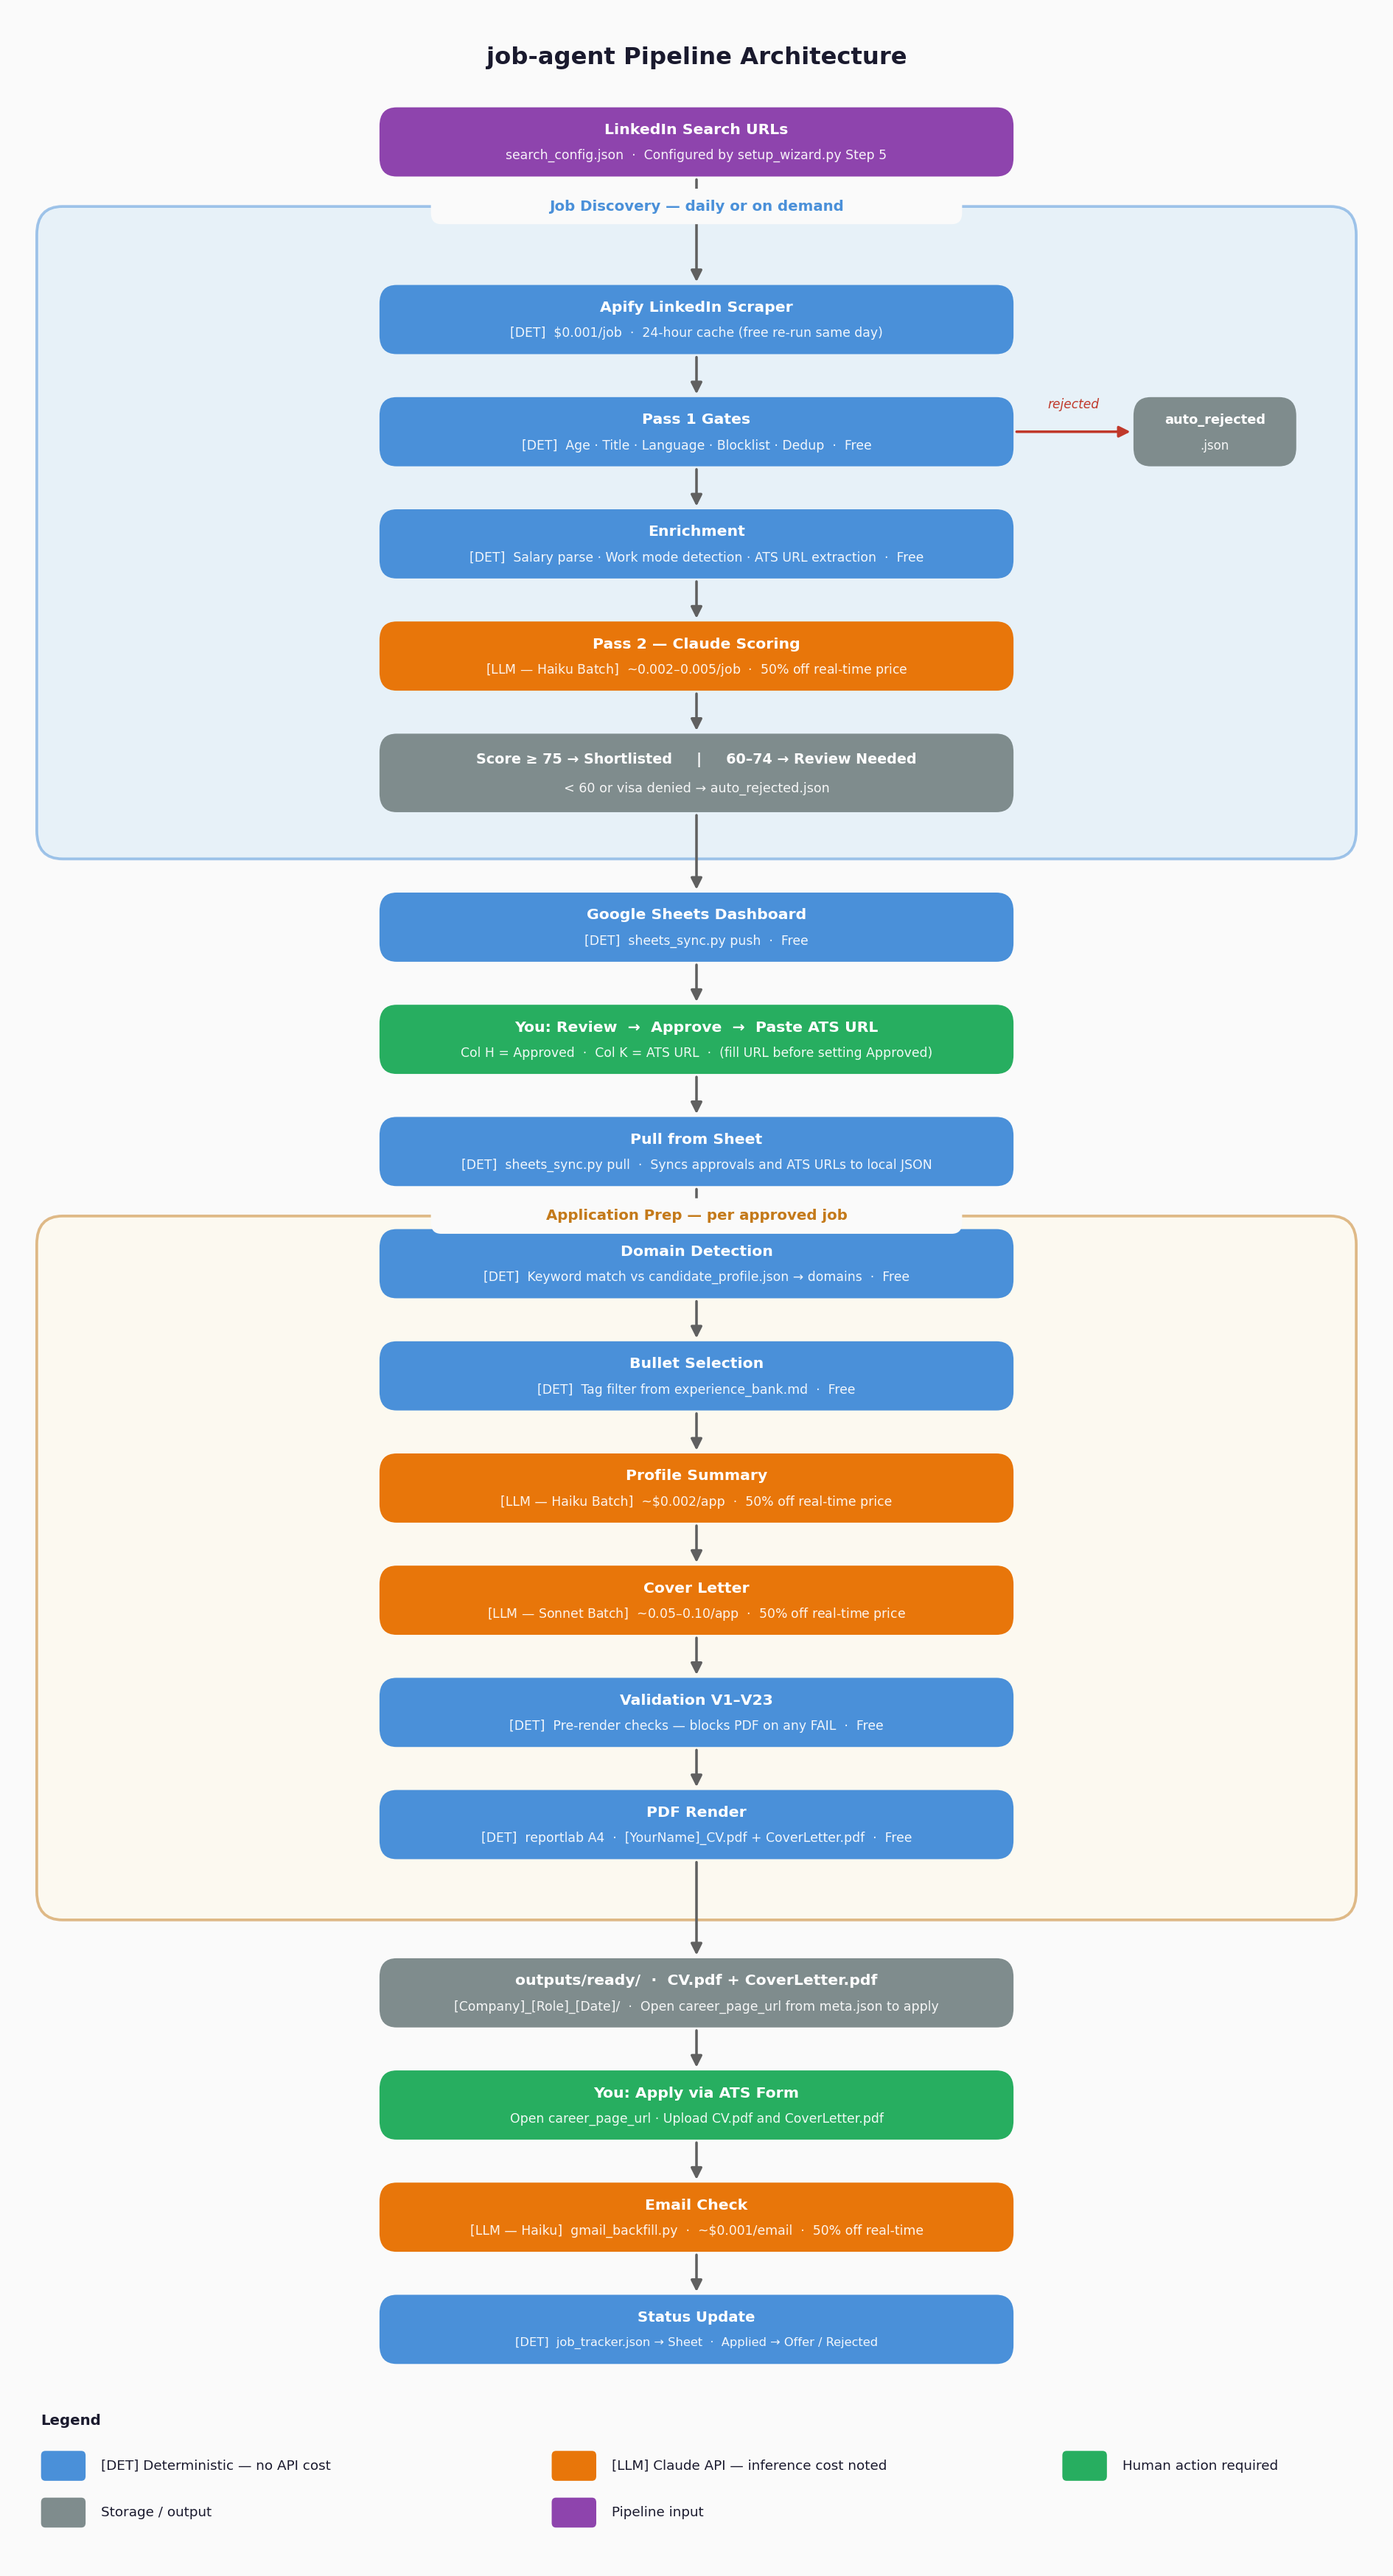
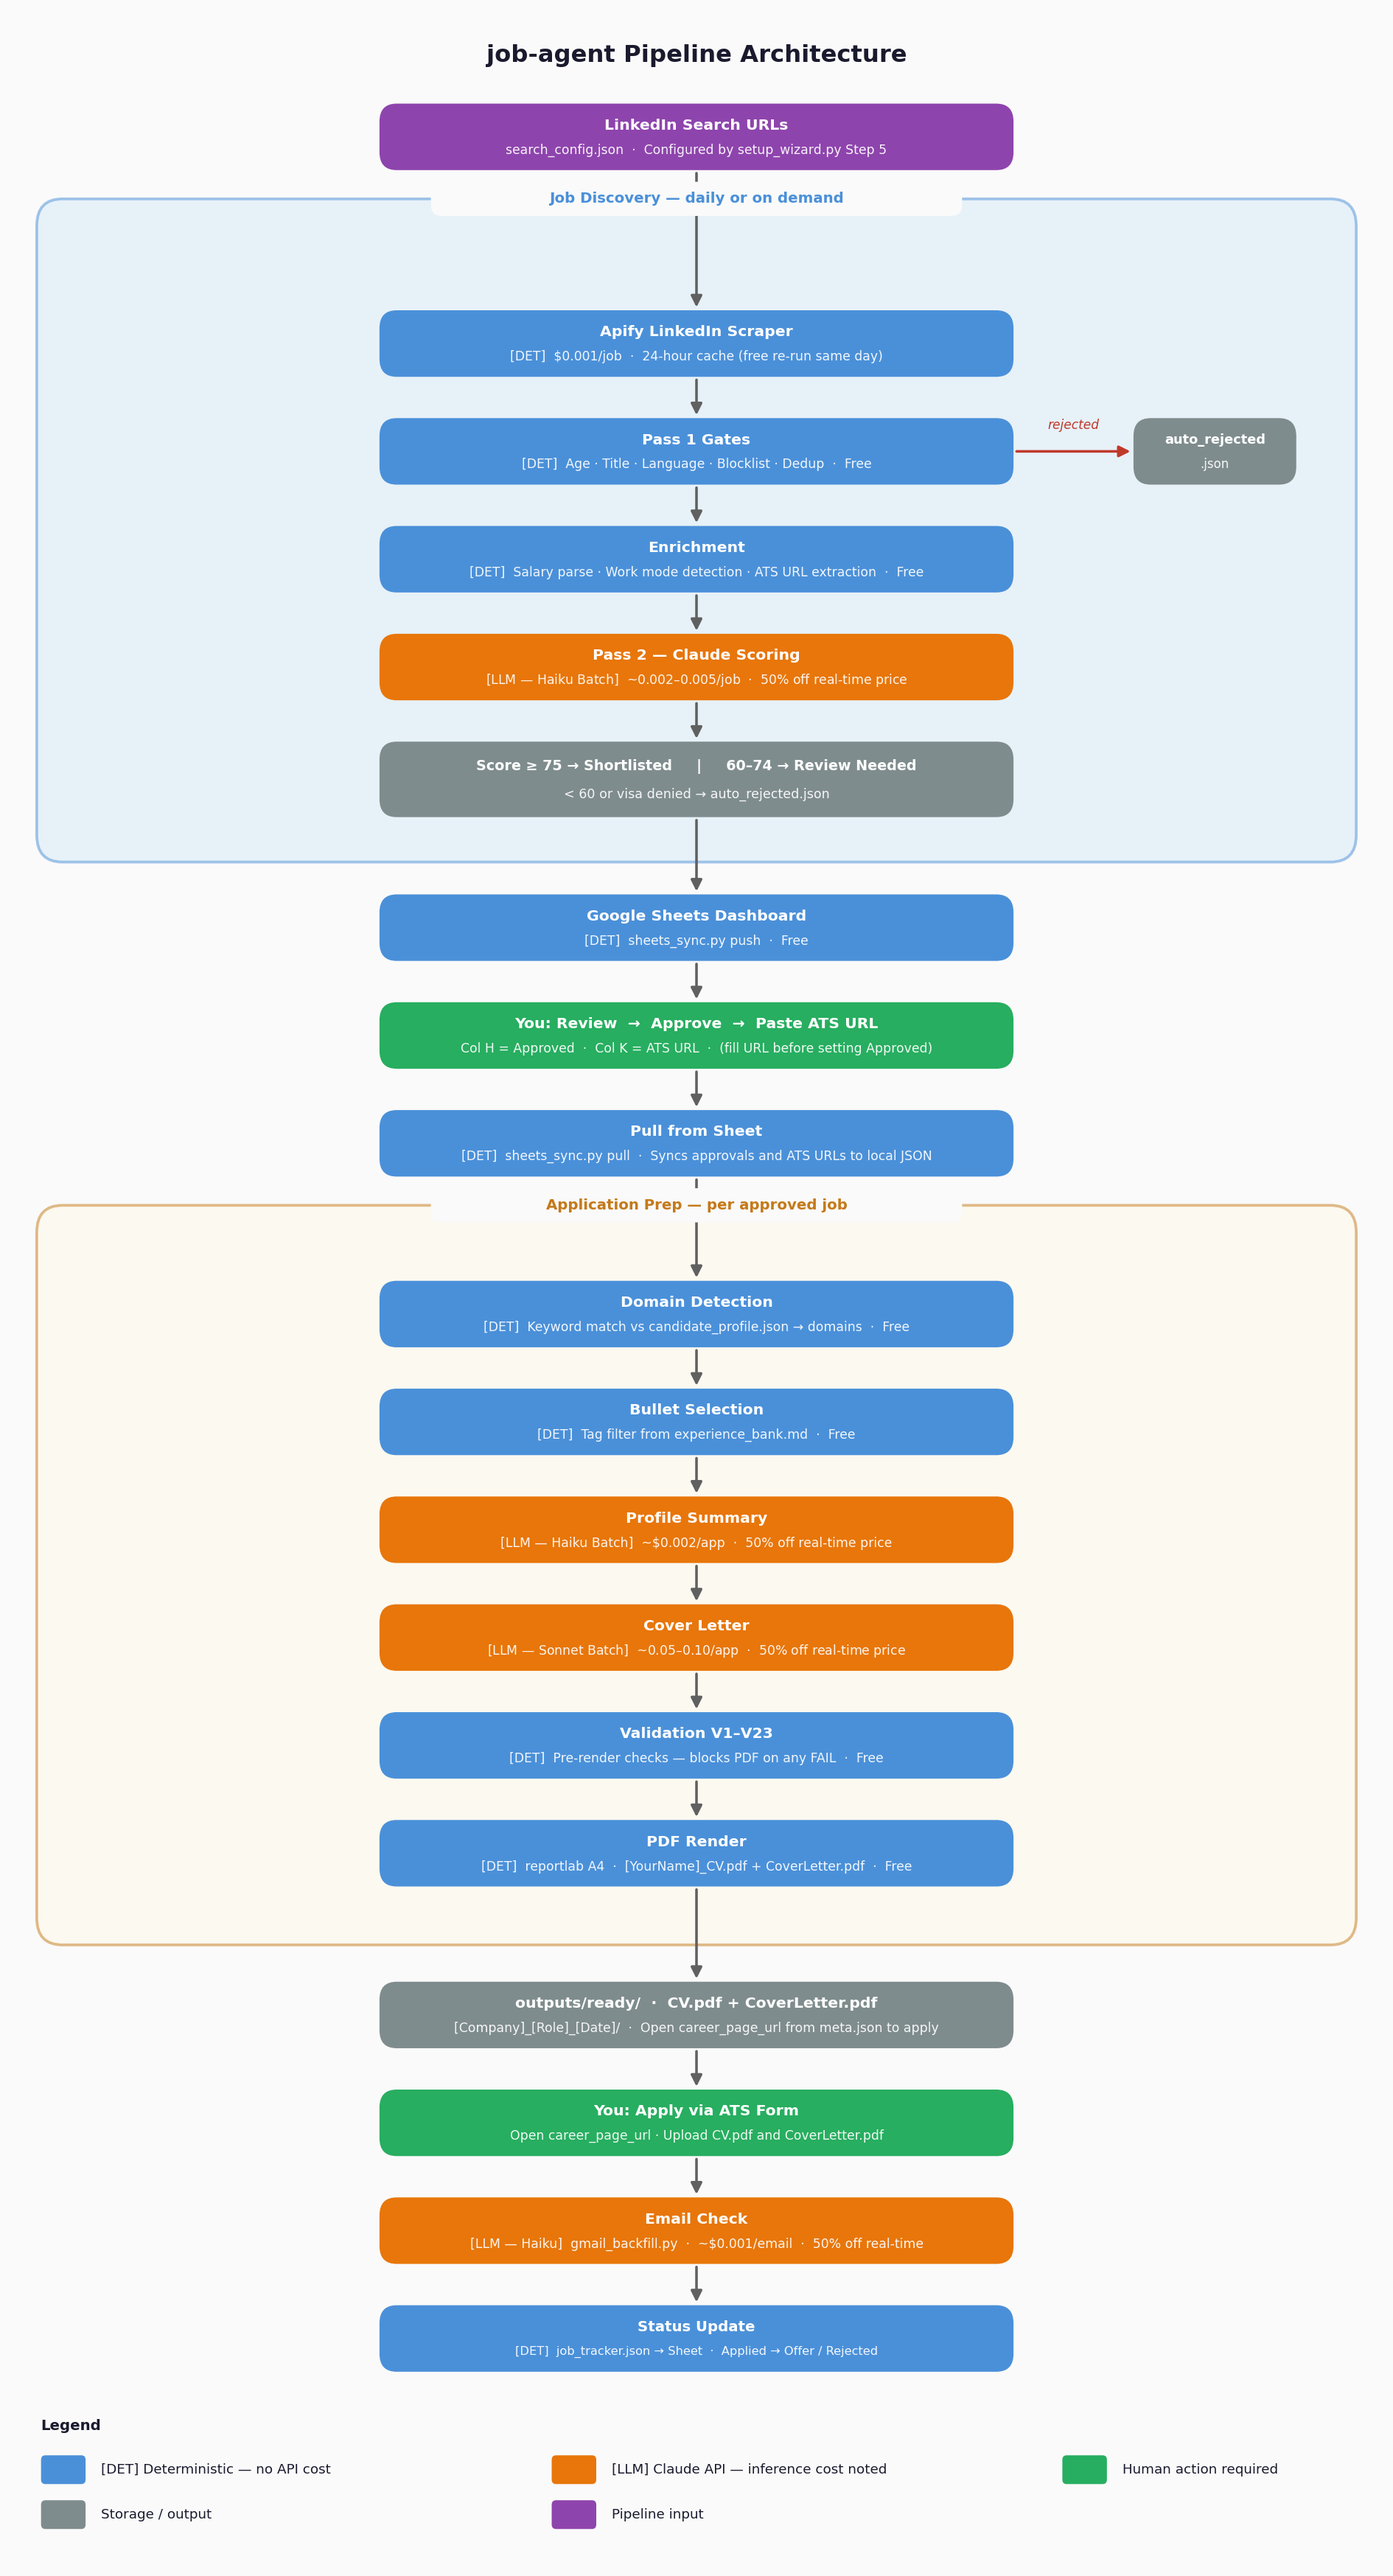
fix: increase top padding inside both group boxes
- SCOUT_TITLE_GAP: 0.70 → 1.10 so Apify Scraper sits well below the
  Job Discovery title pill (gap was ~0.65 units, now ~1.05)
- PREP_TITLE_GAP = 0.70 introduced: first prep node (Domain Detection)
  now pushed 0.70 units below the Application Prep border pill
  (was only 0.14 units — visually touching)
- y_pdf_calc updated to account for PREP_TITLE_GAP

Claude-Session: https://claude.ai/code/session_01RPho4euH1z6KHtymjLkL1u

Changed region(s): [[0.2497, 0.0312, 0.9365, 0.9356], [0.0312, 0.9356, 0.0624, 0.9668]]

diff --git a/scripts/generate_diagram.py b/scripts/generate_diagram.py
@@ -143,8 +143,8 @@ def draw() -> Path:
           INPUT)
 
     # ─────────────────── SCOUT GROUP ──────────────────────────────────────────
-    # Extra gap before first scout node creates room for the group title above the box
-    SCOUT_TITLE_GAP = 0.70
+    # Gap between the top border (title pill) and the first node inside the group
+    SCOUT_TITLE_GAP = 1.10
     y = y_input - STEP - SCOUT_TITLE_GAP
 
     _arrow_down(ax, CX, y_input - HH, y + HH)
@@ -244,14 +244,16 @@ def draw() -> Path:
          "[DET]  reportlab A4  ·  [YourName]_CV.pdf + CoverLetter.pdf  ·  Free", DET),
     ]
 
+    # Gap between the top border (title pill) and the first node inside the group
+    PREP_TITLE_GAP = 0.70
     # Pre-calculate y_pdf so prep_bottom is explicit (avoids straddle on boundary)
-    y_pdf_calc  = y_pull - len(prep_nodes) * STEP
+    y_pdf_calc  = y_pull - PREP_TITLE_GAP - len(prep_nodes) * STEP
     prep_top    = y_pull - HH - 0.32
     prep_bottom = y_pdf_calc - HH - 0.65   # padding below last prep node
     _group(ax, prep_bottom, prep_top - prep_bottom,
            "Application Prep — per approved job", GROUP_PREP, "#C47A1A")
 
-    y = y_pull - STEP
+    y = y_pull - STEP - PREP_TITLE_GAP
     y_prev = y_pull
     for label, sub, color in prep_nodes:
         _arrow_down(ax, CX, y_prev - HH, y + HH)
